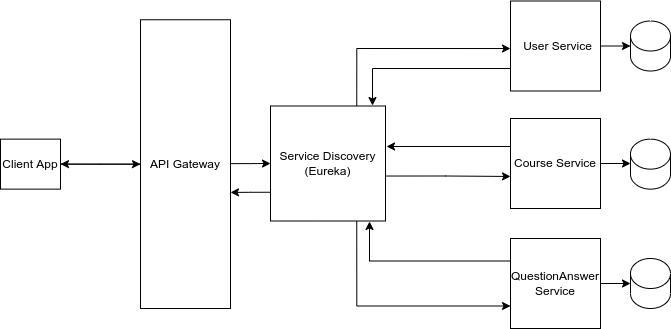
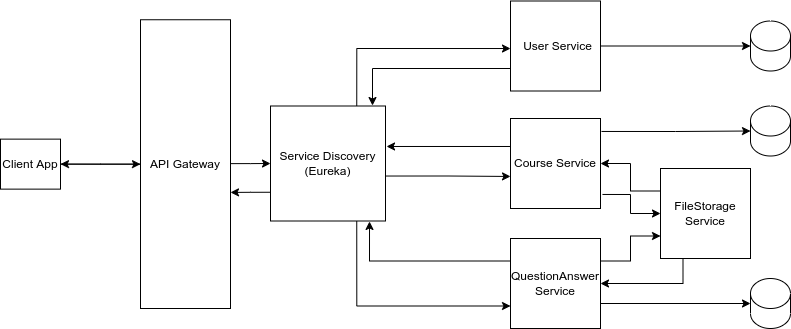
update image for project architecture to include the filestroageservice

diff --git a/CourseService/src/main/java/com/learningmanagementsystem/CourseService/controller/CourseController.java b/CourseService/src/main/java/com/learningmanagementsystem/CourseService/controller/CourseController.java
@@ -112,4 +112,10 @@ public class CourseController {
         this.courseService.removeStudentFromCourse(courseId, userId);
         return new ResponseEntity<>(new MessageResponse("success", "Student has been remove from course", new Date()), HttpStatus.OK);
     }
+
+    @GetMapping("students/courses")
+    public ResponseEntity<?> getAllStudentsEnrollCourse(@RequestParam("courseId") String courseId){
+        List<String> studentIds = this.courseService.getAllStudentsEnrollCourse(courseId);
+        return new ResponseEntity<>(studentIds, HttpStatus.OK);
+    }
 }
